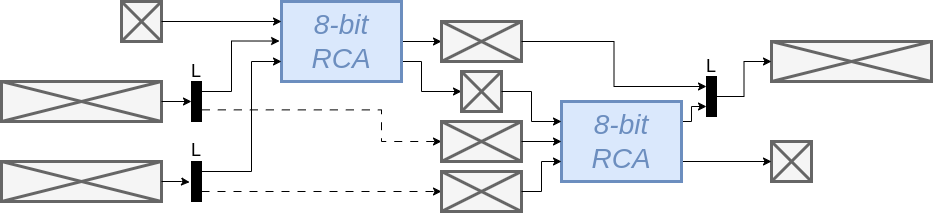
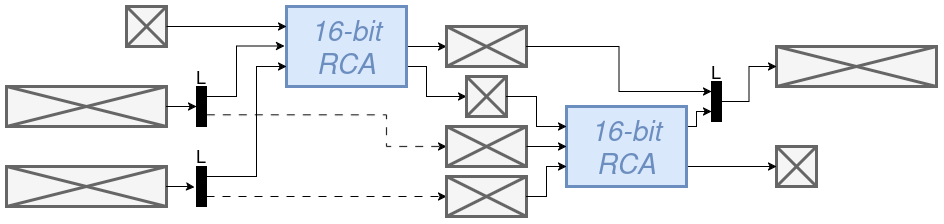
update CH8

Changed region(s): [[0.0, 0.0, 1.0, 1.0], [0.5278, 0.4766, 0.5589, 0.5047]]

diff --git a/content/800_extras/810_tuning.md b/content/800_extras/810_tuning.md
@@ -14,14 +14,14 @@ Het **kritische pad** is het langste combinatorische pad tussen 2 registers/flip
 
 <hr/>
 
-### Design in de Hack Processor
+### Design in de RISC-V processor
 
 ![16-bit](/images/800/16_bit.png)
 
 De latency is 1 clock cycle. Als we aannemen dat het kritische pad de *ripple carry* is en dat de minimale klok periode 2 ns is, dan is de **latency = 2ns**.
 
 Aangezien er iedere clock cycle een optelling gedaan kan worden, is <br/>
-**de througput = 8 Gbps** (= 16 bits / 1CC = 16 bits / 2 ns = 16 / (2 * 10<sup>-9</sup>) bits/s = 8 x 10<sup>9</sup> bits / s )
+**de througput = 16 Gbps** (= 32 bits / 1CC = 32 bits / 2 ns = 32 / (2 * 10<sup>-9</sup>) bits/s = 16 x 10<sup>9</sup> bits / s )
 
 <hr/>
 
@@ -32,7 +32,7 @@ Aangezien er iedere clock cycle een optelling gedaan kan worden, is <br/>
 De latency is 1 clock cycle. Als we aannemen dat het kritische pad de *ripple carry* lineair mee krimpt, wordt de minimale klok periode <span style="color: red; font-weight: bold">1 ns</span> is en dan is de **latency = 1ns**.
 
 Aangezien er iedere clock cycle een optelling gedaan kan worden, is <br/>
-**de througput = 8 Gbps** (= 8 bits / 1CC = 8 bits / 1 ns = 8 x 10<sup>9</sup> bits / s )
+**de througput = 16 Gbps** (= 16 bits / 1CC = 16 bits / 1 ns = 16 x 10<sup>9</sup> bits / s )
 
 <hr/>
 
@@ -43,7 +43,7 @@ Aangezien er iedere clock cycle een optelling gedaan kan worden, is <br/>
 De latency is 1 clock cycle. Als we aannemen dat het kritische pad de *ripple carry* niet wijzigt, dan is de **latency = 2ns**.
 
 Aangezien er iedere clock cycle een optelling gedaan kan worden, is <br/>
-**de througput = 8 Gbps** (= 16 bits / 1CC = 16 bits / 2 ns = 16 / (2 * 10<sup>-9</sup>) bits/s = 8 x 10<sup>9</sup> bits / s )
+**de througput = 16 Gbps** (= 32 bits / 1CC = 32 bits / 2 ns = 32 / (2 * 10<sup>-9</sup>) bits/s = 16 x 10<sup>9</sup> bits / s )
 
 <hr/>
 
@@ -54,7 +54,7 @@ Aangezien er iedere clock cycle een optelling gedaan kan worden, is <br/>
 De latency is <span style="color: red; font-weight: bold">2 clock cycles</span>. Als we aannemen dat het kritische pad de *ripple carry* lineair mee krimpt, wordt de minimale klok periode <span style="color: red; font-weight: bold">1 ns</span> is en dan is de **latency = 2ns**.
 
 Aangezien er, bij een volled pipeline, iedere clock cycle een optelling gedaan kan worden, is <br/>
-**de througput = 16 Gbps** (= 16 bits / 1CC = 16 bits / 1 ns = 16 / (1 * 10<sup>-9</sup>) bits/s)
+**de througput = 32 Gbps** (= 32 bits / 1CC = 32 bits / 1 ns = 32 / (1 * 10<sup>-9</sup>) bits/s)
 
 <hr/>
 
@@ -65,7 +65,7 @@ Aangezien er, bij een volled pipeline, iedere clock cycle een optelling gedaan k
 De latency is <span style="color: red; font-weight: bold">2 clock cycles</span>. Als we aannemen dat het kritische pad de *ripple carry* lineair mee krimpt, wordt de minimale klok periode <span style="color: red; font-weight: bold">1 ns</span> is en dan is de **latency = 2ns**.
 
 Aangezien er iedere <span style="color: red; font-weight: bold">2 clock cycles</span> een optelling gedaan kan worden, is <br/>
-**de througput = 8 Gbps** (= 16 bits / 2CC = 16 bits / 2 ns = 16 / (2 * 10<sup>-9</sup>) bits/s = 8 x 10<sup>9</sup> bits / s )
+**de througput = 16 Gbps** (= 32 bits / 2CC = 32 bits / 2 ns = 32 / (2 * 10<sup>-9</sup>) bits/s = 16 x 10<sup>9</sup> bits / s )
 
 <hr/>
 
@@ -76,13 +76,13 @@ Aangezien er iedere <span style="color: red; font-weight: bold">2 clock cycles</
 | T<sub>min</sub> [ns] | 2  | 1  | 2 | 1 | 1 |
 | Latency [CC] | 1  | 1  | 1 | 2 | 2 |
 | Latency [ns] | 2  | **1**  | 2 | 2 | 2 |
-| Throughput [Gbps] | 8 | 8 | 8 | **16** | 8 |
-| Aantal FF | 3x16 + 2x1 = 50 | 3x8 + 2x1 = 26 | 3x16 + 2x1 = 50 | (3x16 + 2x1) + (3x8 + 1x1) = **75** | 2x16 + 2x1 + 2x8 = 50 |
-| Kan 16-bit optelling | &#x2713; | &#x2717;| &#x2713; | &#x2713; | &#x2713; |
+| Throughput [Gbps] | 16 | 16 | 16 | **32** | 16 |
+| Aantal FF | 3x32 + 2x1 = 98 | 3x16 + 2x1 = 50 | 3x32 + 2x1 = 98 | (3x32 + 2x1) + (3x16 + 1x1) = **147** | 2x32 + 2x1 + 2x16 = 98 |
+| Kan 32-bit optelling | &#x2713; | &#x2717;| &#x2713; | &#x2713; | &#x2713; |
 | Extra controle pad | &#x2717; | &#x2717;| &#x2717; | &#x2713; | &#x2713; |
 | F<sub>max</sub> [MHz] | 500  | 1000  | 500 | 1000 | 1000 |
 
-* De resultaten van de 8-bit versie zijn louter voor de volledigheid;
+* De resultaten van de 16-bit versie zijn louter voor de volledigheid;
 * Unrolled geeft geen meerwaarde in dit geval
 * Pipelined geeft betere throughput en klok snelheid, ten kosten van extra oppervlakte
 * Sequential geeft betere klok snelheid, ten kosten van extra controle-logica

diff --git a/content/800_extras/805_metrics.md b/content/800_extras/805_metrics.md
@@ -1,0 +1,49 @@
+---
+title: 'Metrics'
+weight: 805
+draft: false
+---
+
+Om elektronische ontwerpen te vergelijken is er een **metric** nodig. Vooralleer die besproken worden, wordt er eerst wat opfrissing gedaan.
+
+## Kritisch pad (critical path)
+
+> Het kritische pad is het langste combinatorische pad tussen 2 registers/flip-flops.
+
+Wat zou het kritische pad zijn in onderstaande ripple-carry adder?
+
+![Ripple Carray Adder](/images/800/adder.png)
+
+{{% multiHcolumn %}}
+{{% column %}}
+Het langste pad dat gevonden kan worden is dat van de *"rimpelende carry"*.
+
+* deze ontstaat bij de eerste adder
+* loopt door iedere andere adder
+
+De meest beduidende bit van de RCA is dus pas bekend van zodra deze carry aankomt en verwerkt is in de laatste adder. De opteller kan niet sneller werken zonder zichzelf voor de voet te lopen.
+{{% /column %}}
+{{% column %}}
+![Different clocks](/images/800/clocks.png)
+{{% /column %}}
+{{% /multiHcolumn %}}
+
+{{% multiHcolumn %}}
+{{% column %}}
+![Ripple Carray Adder](/images/800/adder_with_cp.png)
+{{% /column %}}
+{{% column %}}
+Het langst mogelijke kritische pad in deze RCA is:
+* de poortvertraging van 1 AND poort
+* **PLUS** n-1 keren de poortvertragingen van de AND poort plus de XOR poort
+
+Stel dat de totale som van alle poortvertragingen (+ overhead<sup>1</sup> ) 2 ns is, dan heeft dit een impact op de **minimale klok-period**. Het heeft bijgevolg dus rechtstreeks impact op de **maximale klokfrequentie**.
+{{% /column %}}
+{{% /multiHcolumn %}}
+
+> <sup>1</sup> Met overhead wordt bedoeld dat ook setup-en-hold tijd in rekening gebracht moet worden alsook de routing.
+
+
+## Latency
+
+**Latency** is de tijd die nodig is tussen het aanbieden van een input en het ontvangen van een output. De latency kan uitgedrukt worden in **aantal klok-cycli**. Wanneer de maximale klokfrequentie gekend is, kan de latency simpel in "tijd" omgezet worden.
